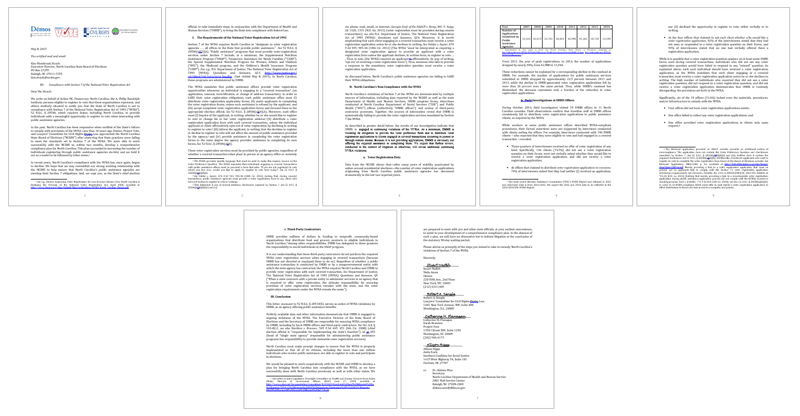
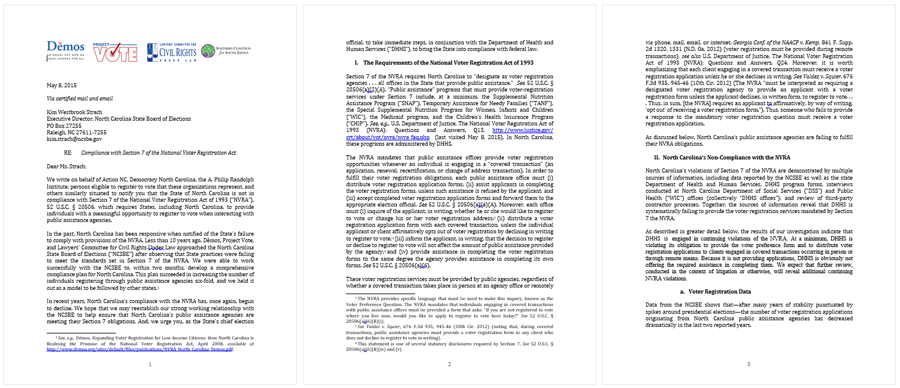
Messed around with the background and stuff

diff --git a/sass/_layout.scss b/sass/_layout.scss
@@ -13,8 +13,9 @@ img {
 .sidebar {
   @include span(1/5);
   //background: transparent;
-  @include box-shadow(0, 2px, 5px, rgba(0, 0, 0, 0.30));
-  background: lighten($light-gray, 5%);
+  //@include box-shadow(0, 2px, 5px, rgba(0, 0, 0, 0.30));
+  background: $sidebar-bg-color;
+  border-right: 1px solid darken($light-gray,5%);
   height: 100%;
   position: fixed;
 }

diff --git a/sass/_normalize.scss b/sass/_normalize.scss
@@ -9,7 +9,7 @@ html {
   font-family: $base-font;
   -ms-text-size-adjust: 100%; // 2
   -webkit-text-size-adjust: 100%; // 2
-  background: #eaeaea url('../assets/img/main-bg.jpg') repeat;
+  background: #fff; //url('../assets/img/main-bg.jpg') repeat;
   background-attachment: fixed;
   font-size: 100%;
 }

diff --git a/sass/_vars.scss b/sass/_vars.scss
@@ -13,6 +13,8 @@ $yellow: #efc319;
 $gray: #777;
 $light-gray: #eaeaea;
 
+$sidebar-bg-color: #fafafa;
+
 
 $footer-bg-color: $dark-blue;
 $main-bg-color: $light-gray;

diff --git a/single.php b/single.php
@@ -6,8 +6,6 @@
 
 	<?php if (have_posts()) : while (have_posts()) : the_post(); ?>
 
-
-
 			<article id="post-<?php the_ID(); ?>" <?php post_class(); ?>>
 
         <h1><?php the_title(); ?></h1>
